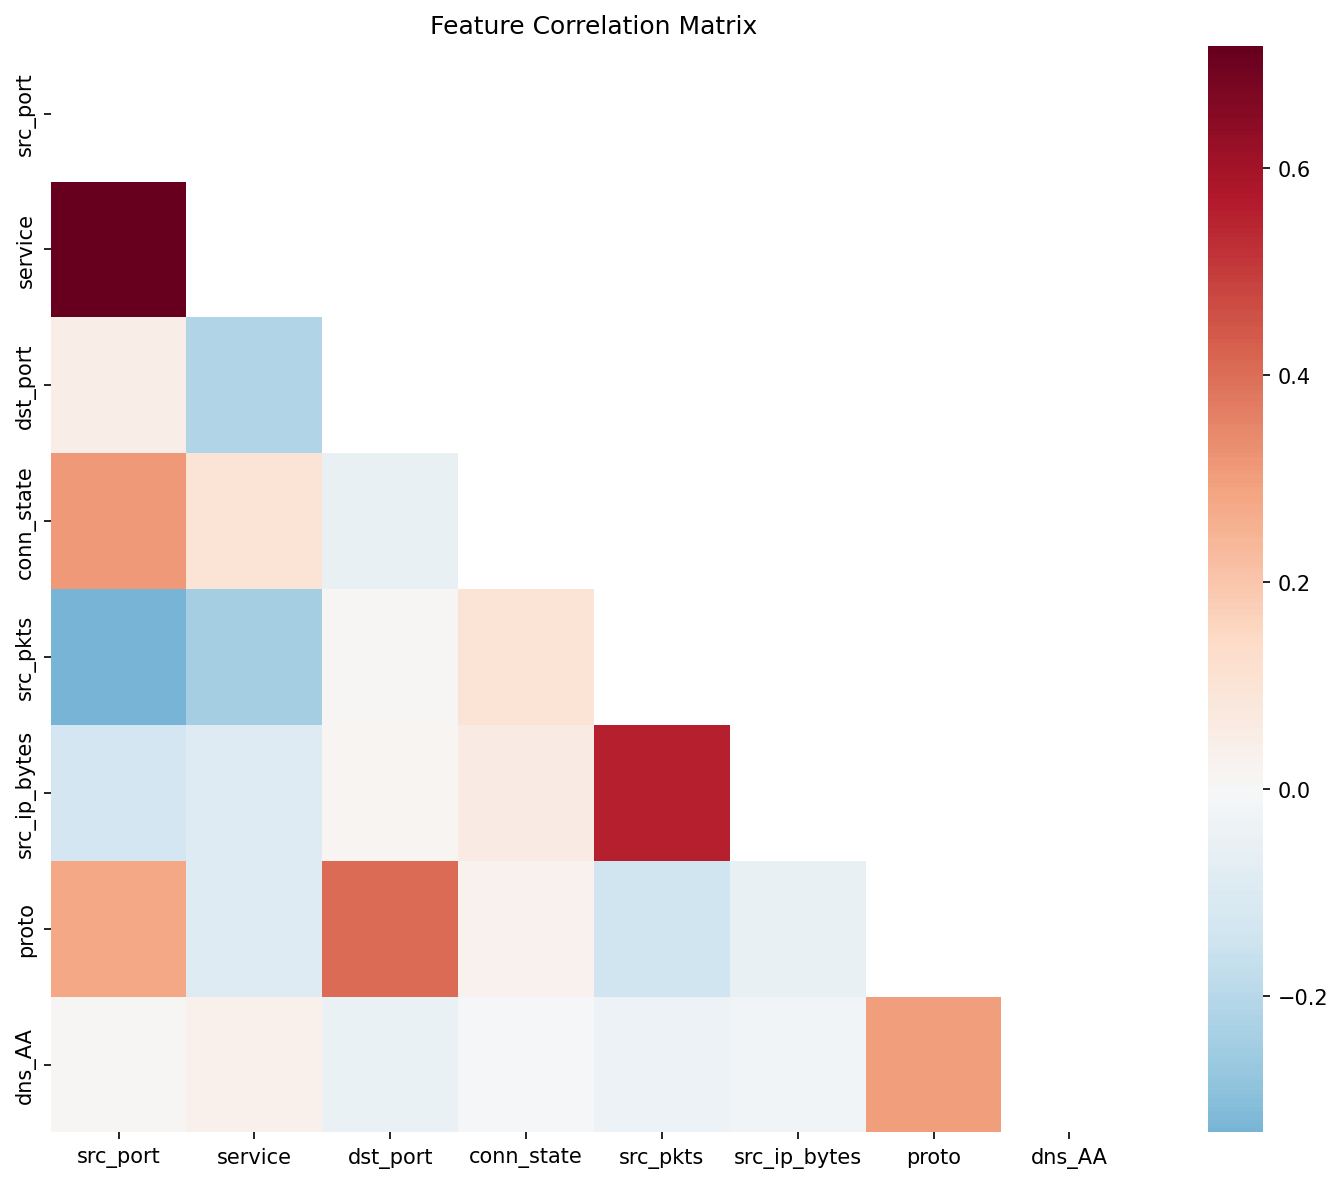
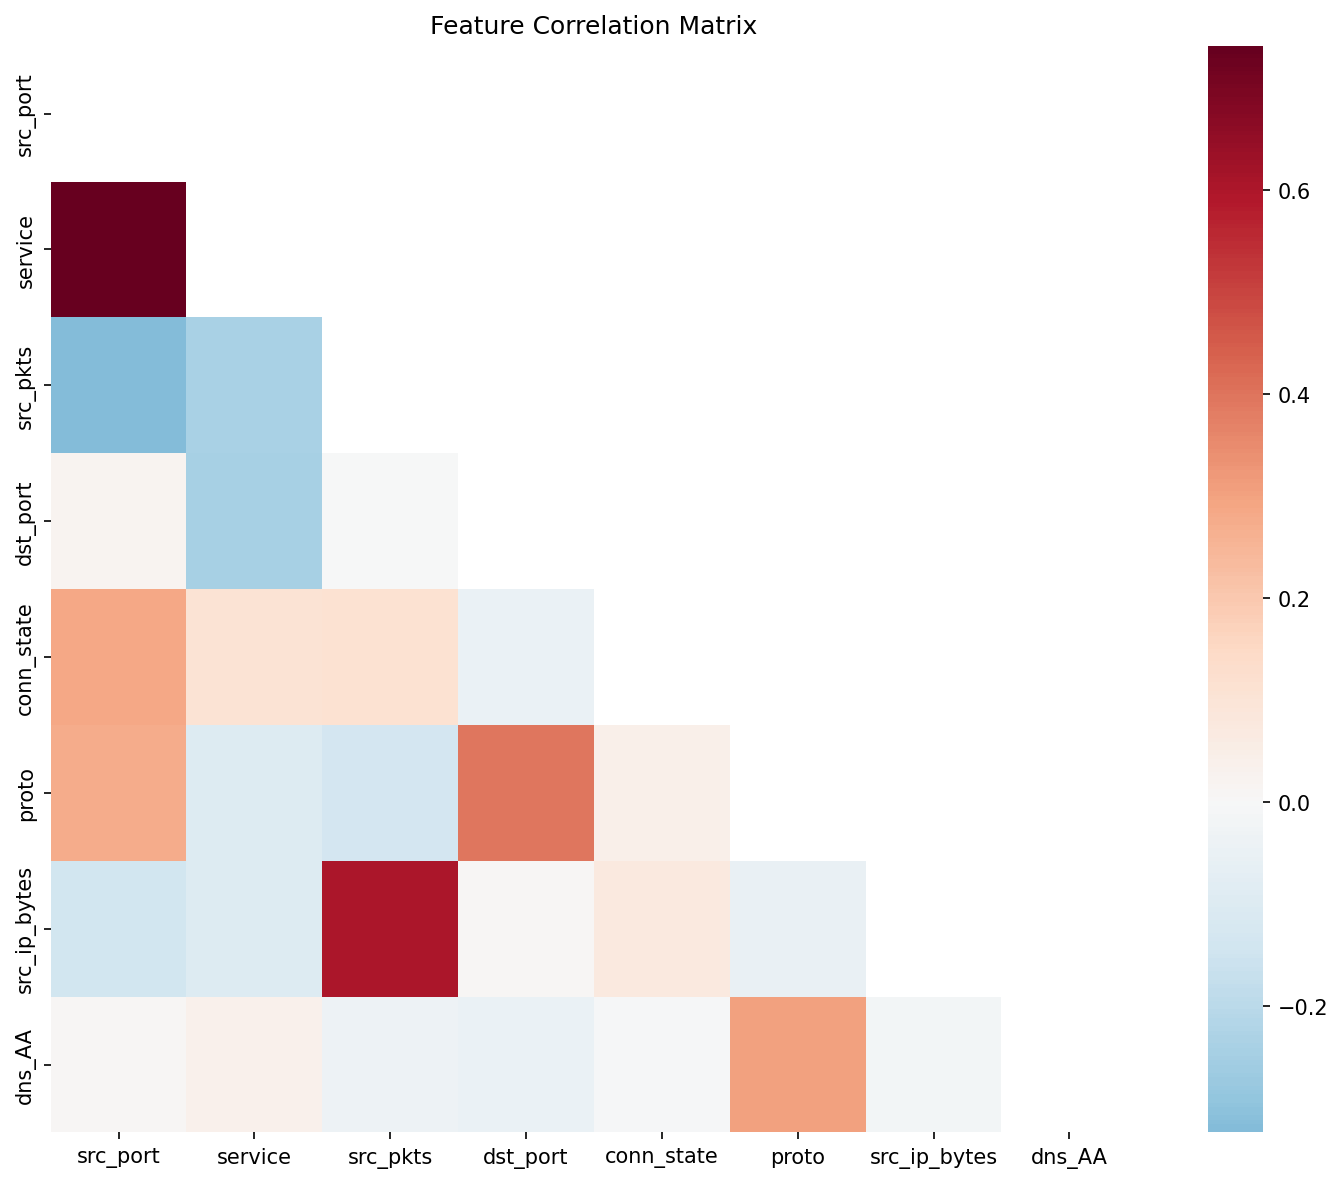
Fix preprocessing: split before feature engineering
- Split train/test before correlation removal, ANOVA, and scaling
- Fit scaler on training data only (fixes data leakage)
- Use random undersampling instead of first-N rows
- Save quantum test subset for consistent evaluation

diff --git a/src/preprocessing/preprocess.py b/src/preprocessing/preprocess.py
@@ -43,43 +43,63 @@ df['conn_state'] = df['conn_state'].map(conn_map).astype(int)
 for col in ['dns_AA', 'dns_RD', 'dns_RA', 'dns_rejected']:
     df[col] = (df[col] == 'T').astype(int)
 
-# Remove highly correlated features (>0.95)
-X = df.drop(columns=['type'])
-upper = X.corr().abs().where(np.triu(np.ones_like(X.corr(), dtype=bool), k=1))
+# ── Step 1: Balance classes by random undersampling to minority size ────────
+X_all = df.drop(columns=['type'])
+y_all = df['type']
+min_size = y_all.value_counts().min()
+print(f"Minority class size: {min_size}")
+
+dfs = []
+rng = np.random.RandomState(42)
+for cls in y_all.unique():
+    idx = y_all[y_all == cls].index
+    if len(idx) > min_size:
+        idx = rng.choice(idx, size=min_size, replace=False)
+    dfs.append(pd.concat([X_all.loc[idx], y_all.loc[idx]], axis=1))
+df_balanced = pd.concat(dfs, ignore_index=True).sample(frac=1, random_state=42)
+
+X_bal = df_balanced.drop(columns=['type']).reset_index(drop=True)
+y_bal = df_balanced['type'].reset_index(drop=True)
+print(f"Balanced: {X_bal.shape}\n{y_bal.value_counts()}")
+
+# ── Step 2: Train/test split BEFORE any feature engineering ─────────────────
+X_train_raw, X_test_raw, y_train, y_test = train_test_split(
+    X_bal, y_bal, test_size=0.2, random_state=42, stratify=y_bal
+)
+X_train_raw = X_train_raw.reset_index(drop=True)
+X_test_raw = X_test_raw.reset_index(drop=True)
+y_train = y_train.reset_index(drop=True)
+y_test = y_test.reset_index(drop=True)
+print(f"Train: {X_train_raw.shape}, Test: {X_test_raw.shape}")
+
+# ── Step 3: Remove highly correlated features (fit on TRAIN only) ───────────
+upper = X_train_raw.corr().abs().where(
+    np.triu(np.ones_like(X_train_raw.corr(), dtype=bool), k=1)
+)
 high_corr = [col for col in upper.columns if any(upper[col] > 0.95)]
-X = X.drop(columns=high_corr)
+X_train_raw = X_train_raw.drop(columns=high_corr)
+X_test_raw = X_test_raw.drop(columns=high_corr)
 print(f"Dropped correlated: {high_corr}")
 
-# Select top 8 features by ANOVA F-score
+# ── Step 4: Select top 8 features by ANOVA F-score (fit on TRAIN only) ─────
 N_QUBITS = 8
-f_scores, _ = f_classif(X, df['type'])
+f_scores, _ = f_classif(X_train_raw, y_train)
 top_features = (
-    pd.DataFrame({'feature': X.columns, 'f_score': f_scores})
+    pd.DataFrame({'feature': X_train_raw.columns, 'f_score': f_scores})
     .sort_values('f_score', ascending=False)
     .head(N_QUBITS)['feature'].tolist()
 )
 print(f"Top {N_QUBITS} features: {top_features}")
 
-# Balance classes by undersampling to minority size
-X = X[top_features]
-y = df['type']
-min_size = y.value_counts().min()
-dfs = []
-for cls in y.unique():
-    idx = y[y == cls].index
-    if len(idx) > min_size:
-        idx = idx[:min_size]
-    dfs.append(pd.concat([X.loc[idx], y.loc[idx]], axis=1))
-df_balanced = pd.concat(dfs, ignore_index=True).sample(frac=1, random_state=42)
-X_bal = df_balanced[top_features].reset_index(drop=True)
-y_bal = df_balanced['type'].reset_index(drop=True)
-print(f"Balanced: {df_balanced.shape}\n{y_bal.value_counts()}")
+X_train_raw = X_train_raw[top_features]
+X_test_raw = X_test_raw[top_features]
 
-# Normalize to [0, pi] for angle encoding
+# ── Step 5: Normalize to [0, pi] (fit on TRAIN only) ───────────────────────
 scaler = MinMaxScaler(feature_range=(0, np.pi))
-X_scaled = pd.DataFrame(scaler.fit_transform(X_bal), columns=top_features)
+X_train = pd.DataFrame(scaler.fit_transform(X_train_raw), columns=top_features)
+X_test = pd.DataFrame(scaler.transform(X_test_raw), columns=top_features)
 
-# Visualizations
+# ── Visualizations ──────────────────────────────────────────────────────────
 colors = {'normal': '#2ecc71', 'dos': '#e74c3c', 'injection': '#3498db'}
 
 fig, ax = plt.subplots(figsize=(6, 4))
@@ -87,49 +107,54 @@ counts = y_bal.value_counts()
 bars = ax.bar(counts.index, counts.values, color=[colors[t] for t in counts.index])
 for bar, val in zip(bars, counts.values):
     ax.text(bar.get_x() + bar.get_width() / 2, bar.get_height() + 500,
-            f'{val:,}\n({val/len(df)*100:.1f}%)', ha='center', fontsize=9)
+            f'{val:,}\n({val/len(y_bal)*100:.1f}%)', ha='center', fontsize=9)
 ax.set_title('Class Distribution')
 ax.set_ylabel('Samples')
 plt.tight_layout()
 plt.savefig(FIGURES / 'class_distribution.png', dpi=150, bbox_inches='tight')
 
 fig, ax = plt.subplots(figsize=(10, 8))
-sns.heatmap(X_scaled.corr(), mask=np.triu(np.ones((N_QUBITS, N_QUBITS), dtype=bool)),
+sns.heatmap(X_train.corr(), mask=np.triu(np.ones((N_QUBITS, N_QUBITS), dtype=bool)),
             cmap='RdBu_r', center=0, square=True, ax=ax)
 ax.set_title('Feature Correlation Matrix')
 plt.tight_layout()
 plt.savefig(FIGURES / 'correlation_matrix.png', dpi=150, bbox_inches='tight')
 
-# Standard train/test split
-X_train, X_test, y_train, y_test = train_test_split(
-    X_scaled, y_bal, test_size=0.2, random_state=42, stratify=y_bal
-)
-print(f"Train: {X_train.shape}, Test: {X_test.shape}")
+# ── Zero-day split: train on normal+dos, test on unseen injection ───────────
+# Use the TRAINING set portion of normal+dos for zero-day training
+# Use the TEST set portion of injection for zero-day testing
+mask_tr_zd = y_train.isin(['normal', 'dos'])
+X_train_zd = X_train[mask_tr_zd]
+y_train_zd = y_train[mask_tr_zd].map({'normal': 0, 'dos': 1})
 
-# Zero-day split: train on normal+dos, test on unseen injection
-mask_tr = y_bal.isin(['normal', 'dos'])
-X_train_zd = X_scaled[mask_tr]
-y_train_zd = y_bal[mask_tr].map({'normal': 0, 'dos': 1})
-X_test_zd = X_scaled[y_bal == 'injection']
+mask_te_zd = y_test == 'injection'
+X_test_zd = X_test[mask_te_zd]
 y_test_zd = pd.Series(np.ones(X_test_zd.shape[0], dtype=int))
+
 print(f"Zero-day — Train: {X_train_zd.shape}, Test: {X_test_zd.shape}")
 
-# Quantum subsample (simulation constraints)
+# ── Quantum subsample (same subset for classical and quantum) ───────────────
 X_train_q = X_train.sample(n=500, random_state=42)
 y_train_q = y_train.loc[X_train_q.index]
 X_test_q = X_test.sample(n=min(200, len(X_test)), random_state=42)
 y_test_q = y_test.loc[X_test_q.index]
 
-# Save
+# ── Save ────────────────────────────────────────────────────────────────────
 X_train.to_csv(DATA / 'X_train.csv', index=False)
 X_test.to_csv(DATA / 'X_test.csv', index=False)
 y_train.to_csv(DATA / 'y_train.csv', index=False)
 y_test.to_csv(DATA / 'y_test.csv', index=False)
 X_train_q.to_csv(DATA / 'X_train_quantum.csv', index=False)
 y_train_q.to_csv(DATA / 'y_train_quantum.csv', index=False)
+X_test_q.to_csv(DATA / 'X_test_quantum.csv', index=False)
+y_test_q.to_csv(DATA / 'y_test_quantum.csv', index=False)
 X_train_zd.to_csv(DATA / 'X_train_zeroday.csv', index=False)
 y_train_zd.to_csv(DATA / 'y_train_zeroday.csv', index=False)
 X_test_zd.to_csv(DATA / 'X_test_zeroday.csv', index=False)
 y_test_zd.to_csv(DATA / 'y_test_zeroday.csv', index=False)
 
+print(f"\nSaved files:")
+print(f"  X_train: {X_train.shape}, X_test: {X_test.shape}")
+print(f"  X_train_quantum: {X_train_q.shape}, X_test_quantum: {X_test_q.shape}")
+print(f"  X_train_zeroday: {X_train_zd.shape}, X_test_zeroday: {X_test_zd.shape}")
 print("Done. Data saved to data/")
